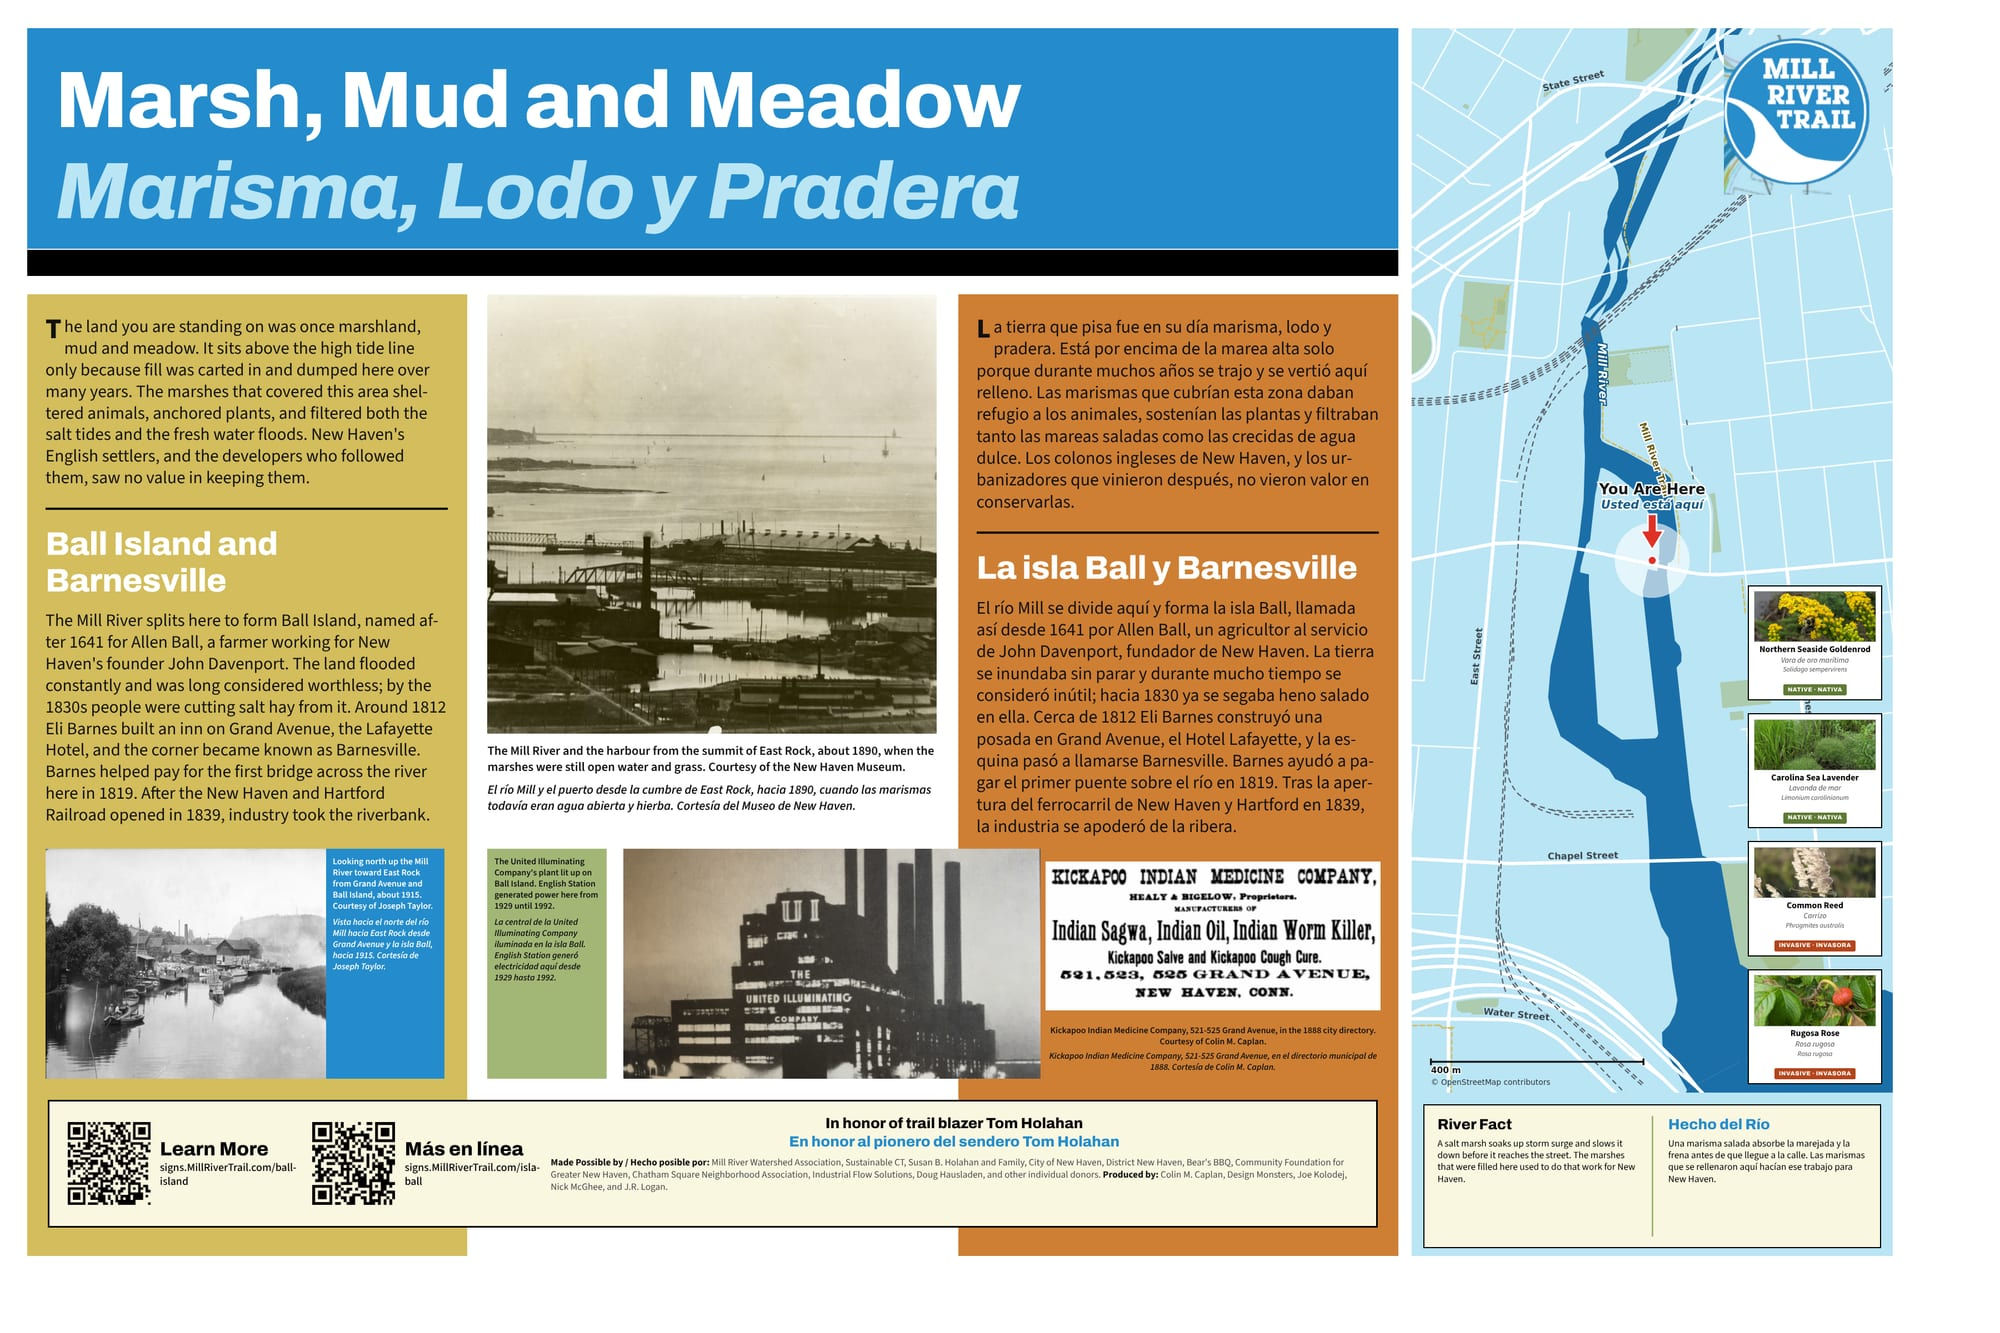
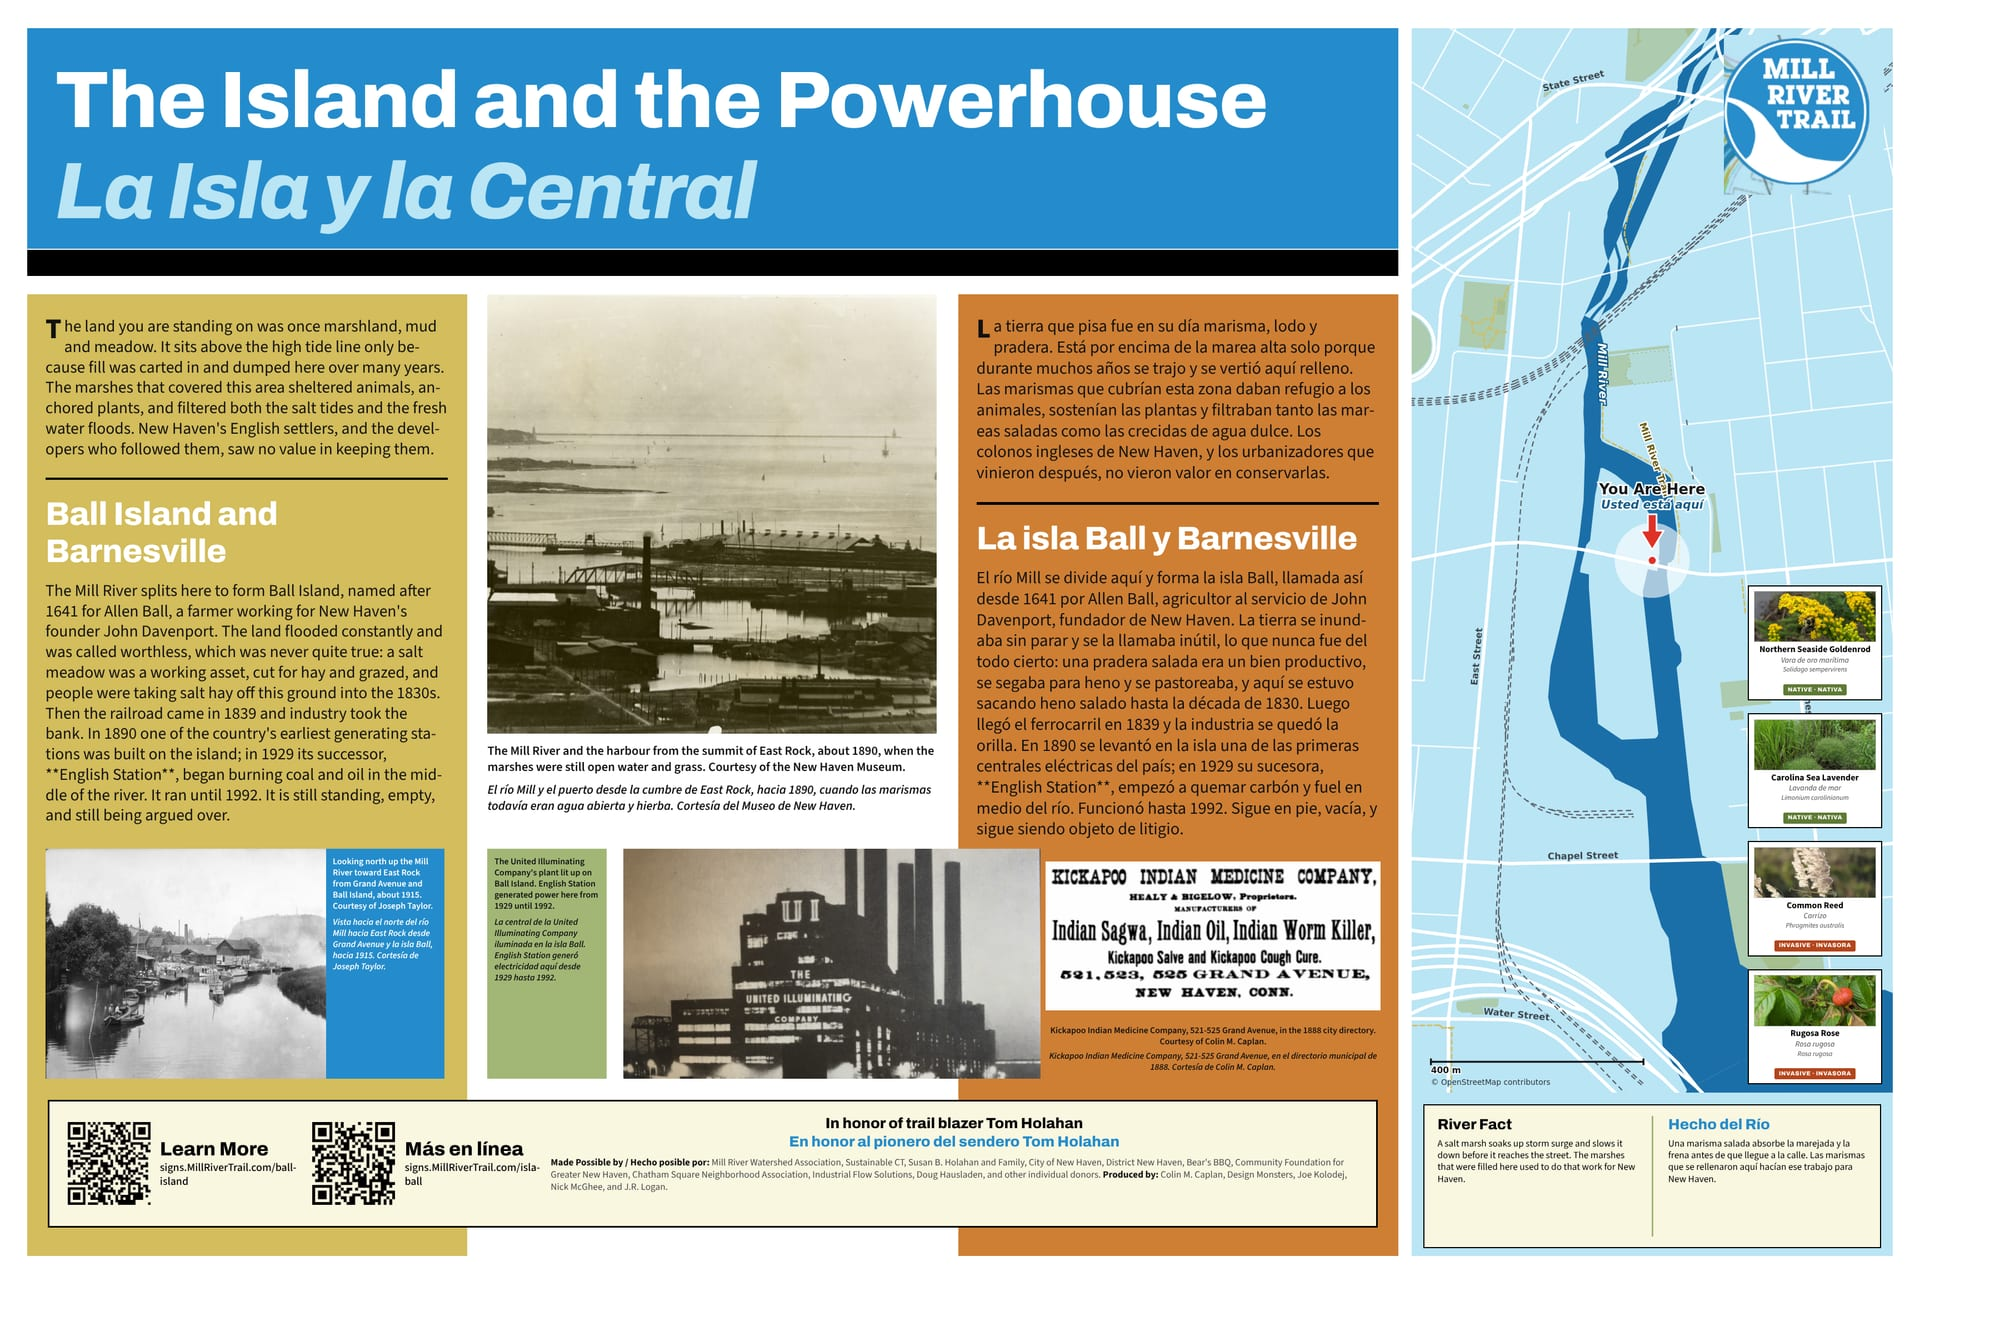
Pick the ten, and put English Station on the front of sign 2
The promise was ten signs and fifteen are written, so content files now
carry a tier field — primary, alternate, placeholder — and the index groups
by it: The ten, Alternates, then the deliberately unwritten one. Within each
group they still sort by how close to finished they are. Changing the ten is
a one-word edit.

The ten are chosen for the strength of the story, not for how finished they
are: 1 Fenian Ram, 2 Island and Powerhouse, 4 Whitney Dam, 5 Bath House,
6 Tide Gate, 8 Grapevine Point, 10 Highway That Wasn't, 11 East Rock,
12 Dragon Point, 13 Lanson. Tides and Century of Plans demoted per JR.
Three Bridges North is demoted despite having complete artwork, which is
uncomfortable but honest — being done is not the same as being best.

English Station was in sign 2 as one sentence near the end, under a title
that signalled nothing. Fixed by promotion, not addition: retitled The
Island and the Powerhouse (URL unchanged), the printed panel now ends on the
building the reader is actually looking at, and the web page gains a section
on the contamination fight — merger condition, 2016 consent order, the 2024
suit, the 2025 ruling on ambiguity, remediation restarting.

Every step of that is dated, and the section tells the reader it is current
to the end of 2025 and has probably moved on. That is the answer to the
present-tense trap the Exchange Street caption fell into: you cannot keep a
live controversy current in metal, but you can date it and say so.
[…]

Changed region(s): [[0.465, 0.2153, 0.682, 0.6459], [0.0, 0.2153, 0.217, 0.6152], [0.031, 0.0308, 0.651, 0.1845]]

diff --git a/docs/DECISIONS.md b/docs/DECISIONS.md
@@ -2379,3 +2379,109 @@ never fails the build.
 derived from what is in version control.** The repository is the only thing both
 environments share. This applies to any future status, progress or completeness
 indicator: if it reads the disk, it is telling you about one laptop.
+
+
+## Ten signs, and which ten
+
+The commitment JR made was **ten signs**. Fifteen are written. So the content
+files now carry a **`tier`** field — `primary`, `alternate` or `placeholder` —
+and the site groups by it: **The ten**, then **Alternates**, then the
+deliberately unwritten one. Within each group they still sort by how close to
+finished they are.
+
+Changing the ten is a one-word edit in one file. That is the point.
+
+### The ten, chosen for the story rather than for how finished it is
+
+| # | Sign | Why it is in |
+|---|---|---|
+| 1 | Fenian Ram | A stolen submarine in a shed on this river for 33 years. Nothing else is like it. |
+| 2 | The Island and the Powerhouse | Salt meadow to power station to a live contamination fight. See below. |
+| 4 | The Dam That Fought Fires | The 1642 mill that named the river, the armory, the water supply, and the herring that still stop here. |
+| 5 | Where the City Bathed | An elected office, ten deadlocked ballots, anonymous letters, and a keeper credited with fifteen lives. |
+| 6 | The Gate in the River | The 1917 Olmsted letter, and the place the state says the sea legally ends. |
+| 8 | Camp at Grapevine Point | The 29th Connecticut. The most consequential story in the series. |
+| 10 | The Highway That Wasn't | A neighbourhood fight that put a law in the statute book a year before the federal one. |
+| 11 | A Boat on the Rock | Milton Stewart building ocean-going oyster boats on a clifftop and sledging them down over snow. |
+| 12 | Dragon Point | Oysters, armed watch houses, and the outbreak that first proved oysters carry typhoid. |
+| 13 | King Lanson's River | The most consequential person on the trail. |
+
+### The five that are not
+
+- **3, Three Bridges North** — and this is the uncomfortable one, because **its
+  artwork is complete**. It is a competent sign about rail bridges and it is
+  finished, but the story is the thinnest in the set. Being done is not the same
+  as being best. If the ten needs a swap for a finished sign, this is the one to
+  promote.
+- **7, Twice a Day, the Sea** — JR's call, and right. The tidal material is
+  genuinely interesting but it is natural history without a human in it, and
+  signs 6 and 12 already carry the tide.
+- **9, A Century of Plans** — JR's call. It is the most abstract sign in the
+  series, and its best material (the connector, the built park) now lives on
+  signs 10 and 2 anyway.
+- **15, The Box and the Jacket** — the hard one to leave out, because it is the
+  most publicly magnetic story on the river. It stays an alternate only because
+  it is brand new and has no images yet. **If the images come through from the
+  New Haven Museum, this has a real claim on a place in the ten.**
+- **14, First People** — its own category. Never prints as it stands.
+
+## English Station is now the front of sign 2
+
+JR: *"I am surprised we don't have anything about English Station as such a
+notable landmark with modern controversy."* It was in sign 2 — as one sentence,
+near the end, under the title *Marsh, Mud and Meadow*, which signals nothing.
+
+Fixed by promotion, not addition:
+
+- **Retitled "The Island and the Powerhouse"** / *"La Isla y la Central."* The
+  URL is unchanged — still `/ball-island` — so nothing printed is affected.
+- **The printed panel now ends on the building the reader is looking at**, not on
+  Eli Barnes's inn: 1890 plant, 1929 English Station, ran to 1992, *"still
+  standing, empty, and still being argued over."*
+- **The web page gains a section, "The building that is still an argument."**
+
+### The controversy, dated on purpose
+
+Verified and sourced to CT Mirror and the New Haven Independent:
+
+- Cleaning up English Station was made **a condition of the merger** that folded
+  United Illuminating into **Avangrid**.
+- A **2016 partial consent order** gave UI three years to get PCBs inside the
+  building to 1 ppm.
+- It did not happen. **January 2024:** the Attorney General sued to enforce.
+- **August 2025:** a judge found the order ambiguous — the state reads it as
+  covering everything inside containing PCBs, the company as covering only where
+  PCBs were spilled — and sent it back to DEEP.
+- **Late 2025:** remediation restarting; the city weighing what the site becomes.
+
+Every step is dated, and the section closes by telling the reader outright that
+the sequence is current to the end of 2025 and has probably moved on. **That is
+the fix for the present-tense trap** the Exchange Street caption fell into: you
+cannot keep a live controversy current on metal, but you can date it honestly and
+say so.
+
+The connection worth keeping: this is the same argument the river has been having
+since the 1880s — where the line falls between what a company spilled and what a
+company owes.
+
+## Salt hay: JR's lead, and what the sign now says
+
+JR had heard livestock grazed the salt hay on Ball Island. The sign already said
+*"by the 1830s people were cutting salt hay from it"* and left it there, which
+undersold it — and left the word **Meadow** in the old title unexplained.
+
+The regional practice is very well documented: **salt meadows were a working
+agricultural asset, not waste ground.** *Spartina patens* was the preferred salt
+hay, cut by hand at low tide in late summer, and where it was not cut it was
+grazed. In New England towns the salt meadows were commonly **town-owned, with
+the rights to mow and carry away the hay auctioned off annually**. Cattle were
+sometimes finished on salt hay because it was held to improve the meat.
+
+Sign 2 now says the land *"was called worthless, which was never quite true: a
+salt meadow was a working asset, cut for hay and grazed."*
+
+**Not yet verified for Ball Island specifically** — the grazing, and whether New
+Haven auctioned mowing rights here. **This is a very good Whitney Library
+question**, and the New Haven town records that produced the 1642 mill case are
+the same series that would record salt meadow allotments. Worth asking Colin,
+who may simply know.
